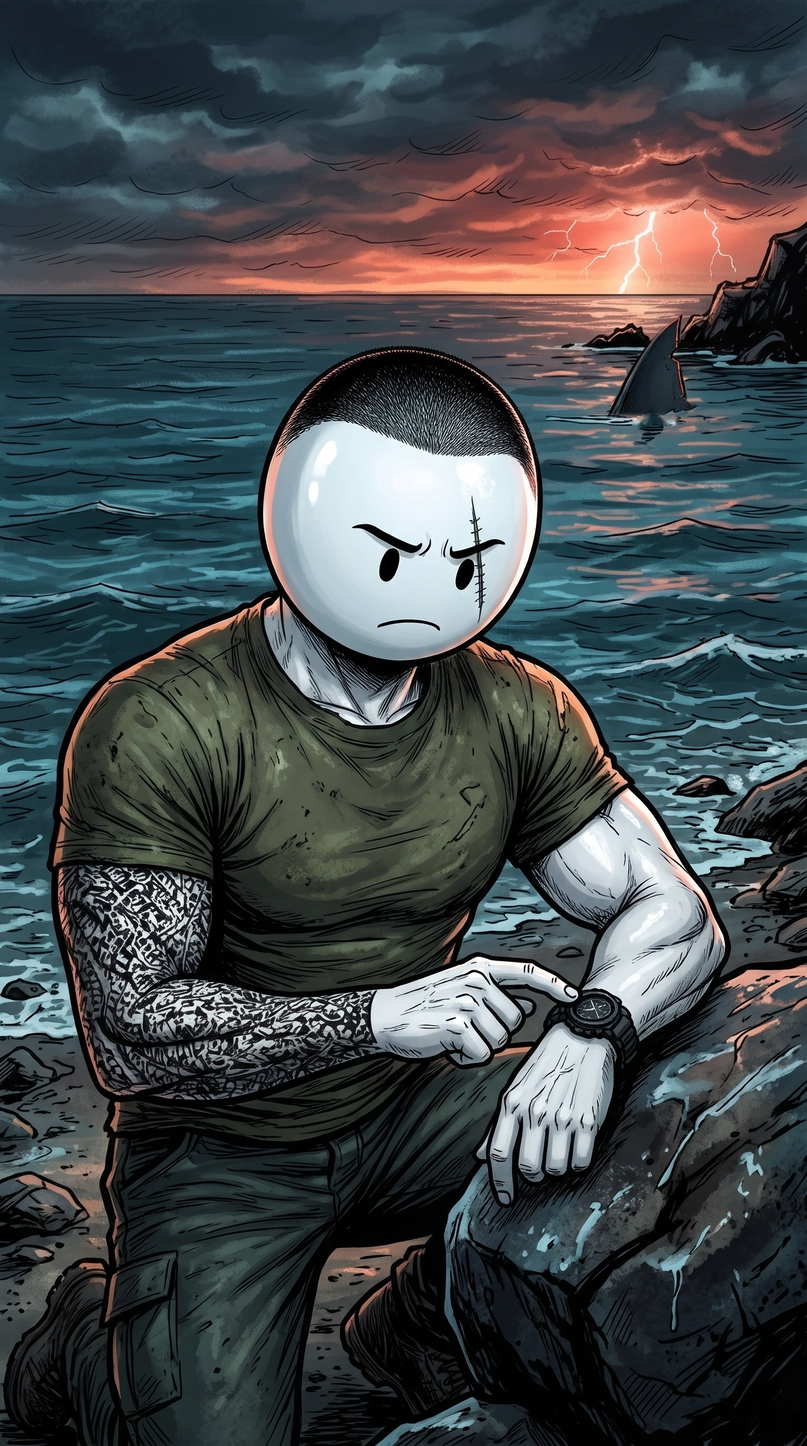
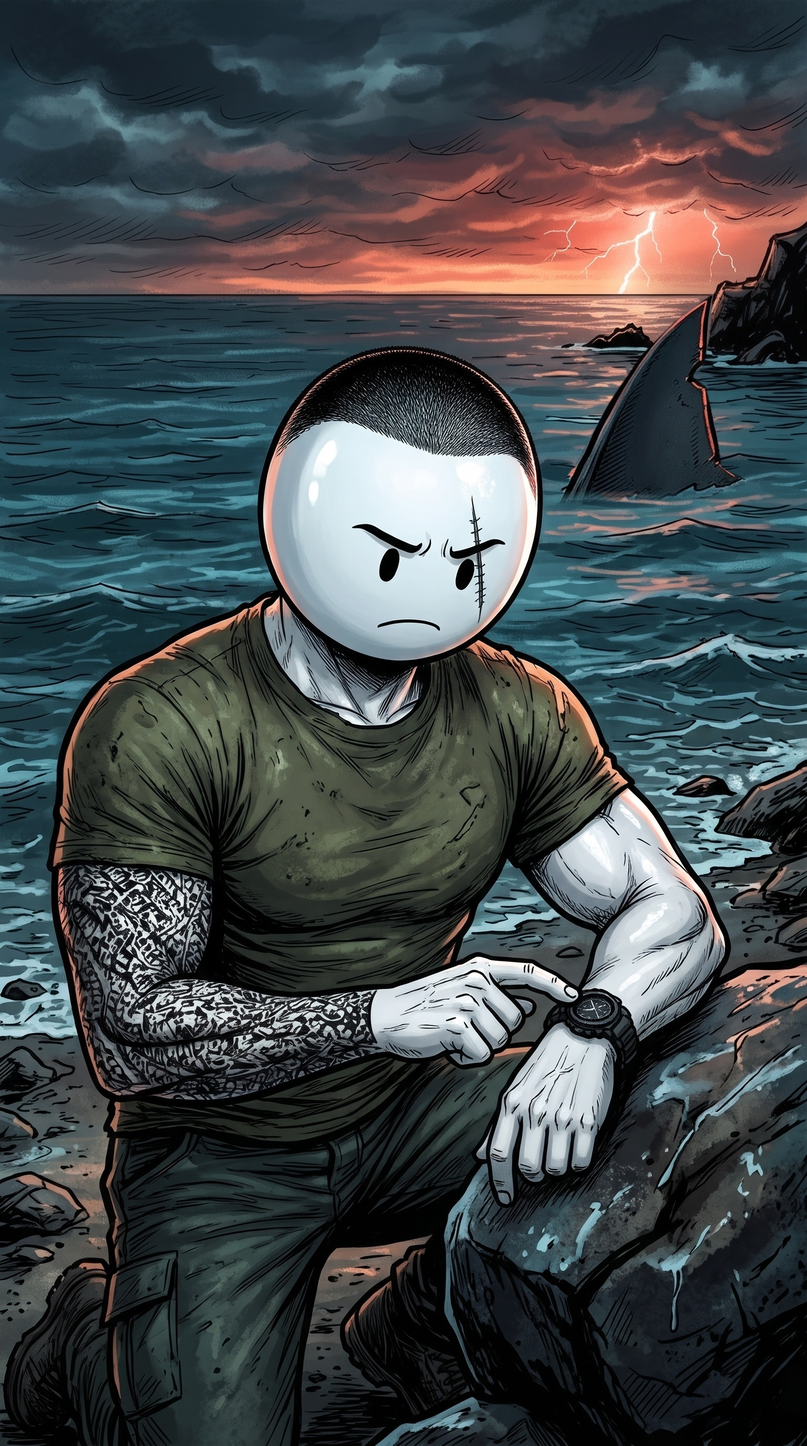
ADA 9: yüzgeçler 2 kat büyütüldü (07, 09a, 09b, 15)
Claude-Session: https://claude.ai/code/session_014JxJGGMAcsX945kBrKhihb

Changed region(s): [[0.6875, 0.1875, 0.9062, 0.3438]]

diff --git a/hikaye-video/projeler/ada9/yuzgec-08.py b/hikaye-video/projeler/ada9/yuzgec-08.py
@@ -5,11 +5,11 @@ import sys, os, cv2, numpy as np
 G = os.path.join(os.path.dirname(__file__), '..', '..', 'gorseller', 'ada9')
 POLY = [(852, 944), (848, 1000), (840, 1040), (822, 1058), (842, 1072), (858, 1140), (864, 1186), (902, 1204), (840, 1228),
         (700, 1232), (640, 1236), (642, 1210), (668, 1170), (705, 1100), (752, 1030), (800, 982)]
-CFG = {  # boy: yüzgeç yüksekliği (px), taban: köpüğün durduğu nokta, sil: eski küçük yüzgecin kutusu (koyu piksel silinir)
-    '07': dict(boy=150, taban=(868, 447), sil=(838, 402, 905, 458)),
-    '09a': dict(boy=200, taban=(1243, 798), sil=(1205, 730, 1290, 808)),
-    '09b': dict(boy=235, taban=(795, 1272), sil=(690, 1045, 960, 1300)),
-    '15': dict(boy=390, taban=(620, 1800), sil=None)}
+CFG = {  # boy: yüzgeç yüksekliği (px), taban: yüzgecin suya girdiği nokta, sil: eski küçük yüzgecin kutusu (koyu piksel silinir)
+    '07': dict(boy=330, taban=(770, 650), sil=(838, 402, 905, 458)),
+    '09a': dict(boy=400, taban=(1243, 960), sil=(1205, 730, 1290, 808)),
+    '09b': dict(boy=480, taban=(795, 1290), sil=(690, 1045, 960, 1300)),
+    '15': dict(boy=470, taban=(640, 1870), sil=None)}
 
 
 def sprite():
